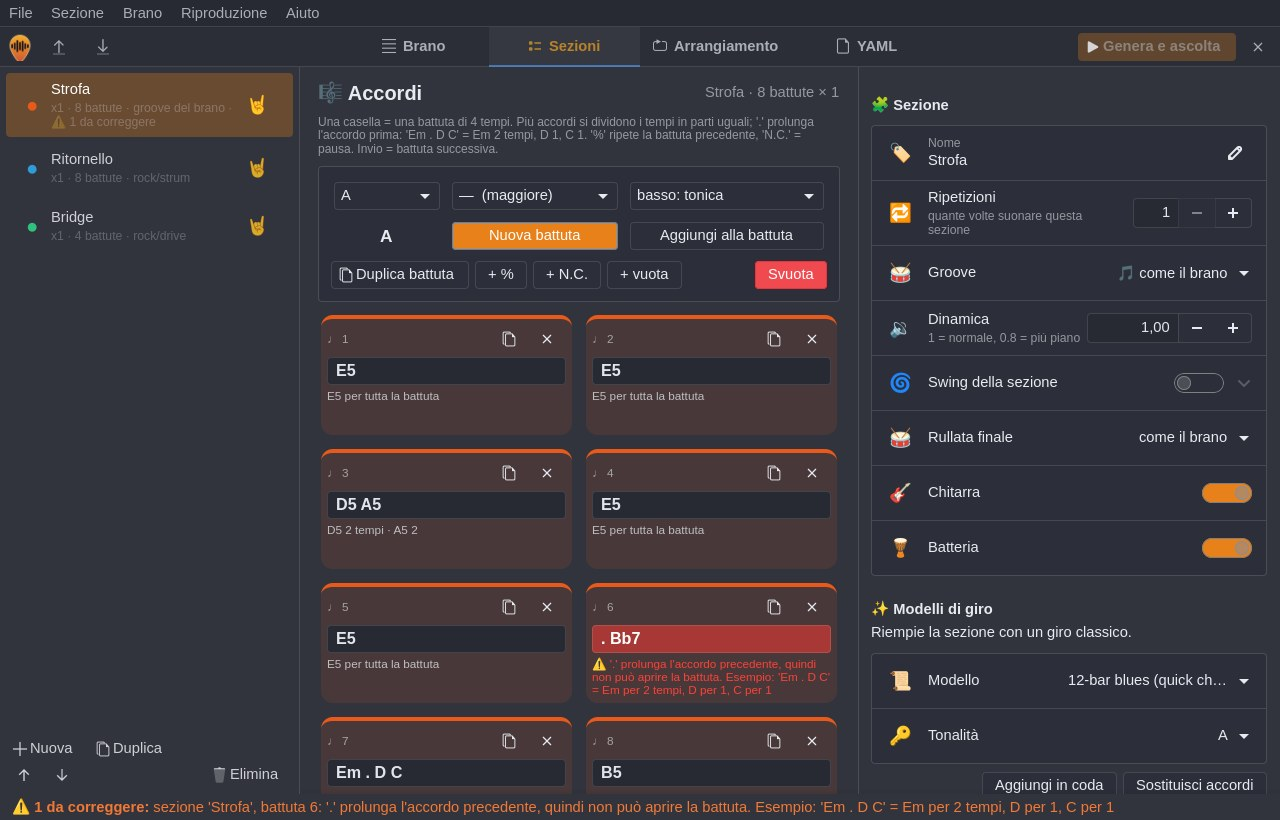
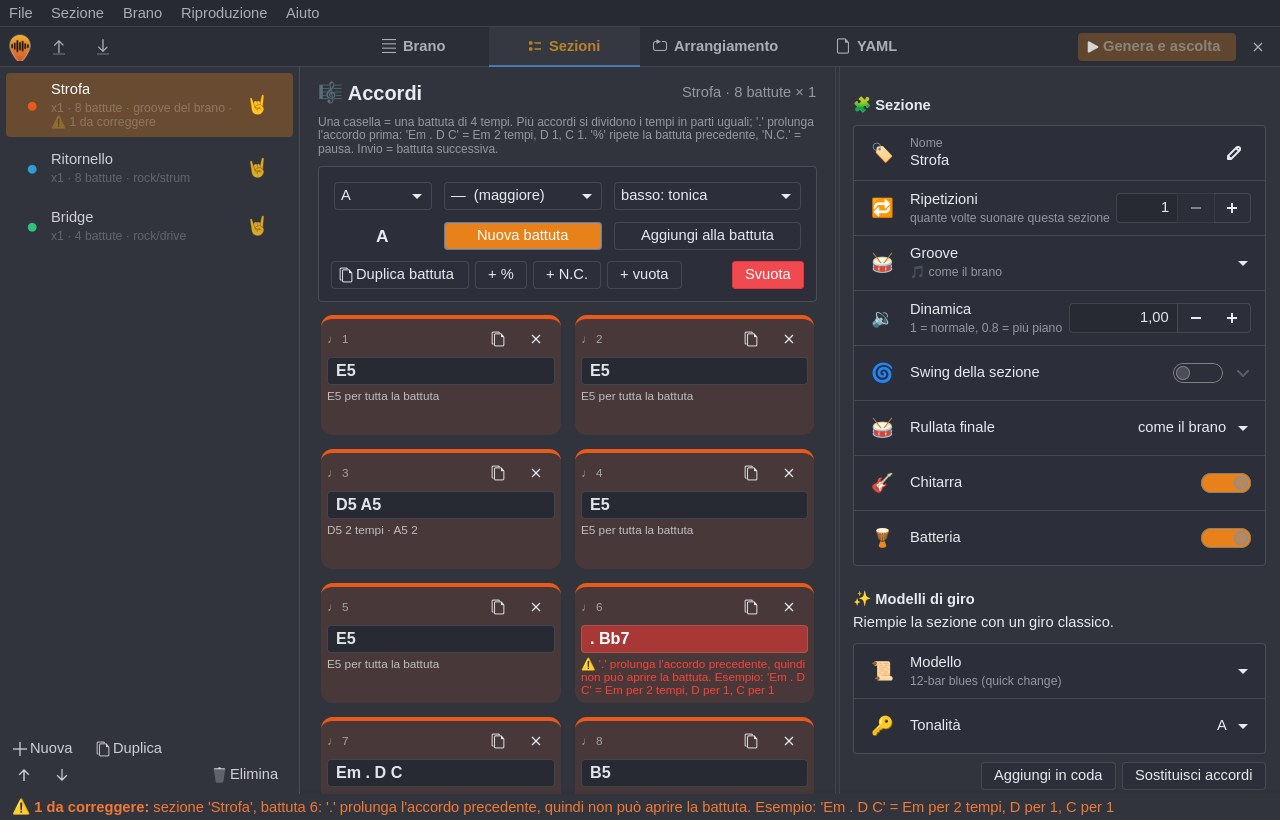
fix(gui): colonna impostazioni più larga e ridimensionabile, valori lunghi sotto il titolo

diff --git a/backingtrack/gui.py b/backingtrack/gui.py
@@ -68,8 +68,9 @@ entry:focus-within { outline-color: alpha(#f5a623, 0.7); }
 
 # --------------------------------------------------------------------------- widget di supporto
 
-def combo_row(title, items, subtitle=None):
-    row = Adw.ComboRow(title=title)
+def combo_row(title, items, subtitle=None, long=False):
+    """long=True: valore scelto mostrato sotto il titolo, a tutta larghezza (per voci lunghe)."""
+    row = Adw.ComboRow(title=title, use_subtitle=long)
     row.set_model(Gtk.StringList.new(items))
     if subtitle:
         row.set_subtitle(subtitle)
@@ -231,8 +232,7 @@ class MainWindow(Adw.ApplicationWindow):
         g = Adw.PreferencesGroup(title="🎵 Brano")
         self.w_title = Adw.EntryRow(title="Titolo")
         self.w_tempo = spin_row("Tempo", 30, 320, 1, subtitle="battiti al minuto (BPM)")
-        self.w_groove = combo_row("Groove", [groove_text(n) for n in GROOVE_NAMES])
-        self.w_groove.set_enable_search(True)
+        self.w_groove = combo_row("Groove", [groove_text(n) for n in GROOVE_NAMES], long=True)
         self.w_transpose = spin_row("Trasposizione", -12, 12, 1, subtitle="semitoni: -1 per accordatura mezzo tono sotto")
         self.w_swing = Adw.ExpanderRow(title="Swing personalizzato", subtitle="se spento, lo decide il groove")
         self.w_swing.set_show_enable_switch(True)
@@ -244,7 +244,7 @@ class MainWindow(Adw.ApplicationWindow):
         page.add(g)
 
         g = Adw.PreferencesGroup(title="🔊 Suono")
-        self.w_guitar = combo_row("Chitarra", ["Gretsch Anniversary (hollowbody)", "Epiphone (solid body)"])
+        self.w_guitar = combo_row("Chitarra", ["Gretsch Anniversary (hollowbody)", "Epiphone (solid body)"], long=True)
         self.w_amp = combo_row("Ampli", ["dal groove"] + sf.AMPS, "clean · blues · twang · crunch · high gain")
         self.w_double = combo_row("Chitarra doppiata L/R", TRI)
         self.w_slap = combo_row("Slapback", TRI, "eco corta anni '50")
@@ -347,8 +347,7 @@ class MainWindow(Adw.ApplicationWindow):
         g = Adw.PreferencesGroup(title="🧩 Sezione")
         self.s_name = Adw.EntryRow(title="Nome")
         self.s_repeat = spin_row("Ripetizioni", 1, 64, 1, subtitle="quante volte suonare questa sezione")
-        self.s_groove = combo_row("Groove", ["🎵 come il brano"] + [groove_text(n) for n in GROOVE_NAMES])
-        self.s_groove.set_enable_search(True)
+        self.s_groove = combo_row("Groove", ["🎵 come il brano"] + [groove_text(n) for n in GROOVE_NAMES], long=True)
         self.s_volume = spin_row("Dinamica", 0.2, 1.5, 0.05, 2, "1 = normale, 0.8 = più piano")
         self.s_swing = Adw.ExpanderRow(title="Swing della sezione")
         self.s_swing.set_show_enable_switch(True)
@@ -430,9 +429,14 @@ class MainWindow(Adw.ApplicationWindow):
         self.c_preview.set_label(self.built_chord())
 
         g = Adw.PreferencesGroup(title="✨ Modelli di giro", description="Riempie la sezione con un giro classico.")
-        self.t_name = deco(combo_row("Modello", list(sf.TEMPLATES)), "📜")
+        self.t_name = deco(combo_row("Modello", list(sf.TEMPLATES), long=True), "📜")
+        self.t_key_sub = lambda *_: self.t_name.set_tooltip_text("| " + " | ".join(
+            sf.template_bars(list(sf.TEMPLATES)[self.t_name.get_selected()], sf.KEYS[self.t_key.get_selected()])) + " |")
+        self.t_name.connect("notify::selected", self.t_key_sub)
         self.t_key = deco(combo_row("Tonalità", sf.KEYS), "🔑")
         self.t_key.set_selected(sf.KEYS.index("A"))
+        self.t_key.connect("notify::selected", self.t_key_sub)
+        self.t_key_sub()
         buttons = Gtk.Box(spacing=6, halign=Gtk.Align.END, margin_top=8)
         rep = Gtk.Button(label="Sostituisci accordi")
         rep.connect("clicked", lambda _b: self.apply_template(replace=True))
@@ -454,14 +458,15 @@ class MainWindow(Adw.ApplicationWindow):
         empty.set_child(start)
         self.sec_stack = Gtk.Stack()
         # due colonne affiancate: accordi (larga) | impostazioni della sezione e modelli
-        page.set_size_request(360, -1)
+        page.set_size_request(440, -1)
         chords_scroll = Gtk.ScrolledWindow(child=chords, hexpand=True, vexpand=True,
                                            hscrollbar_policy=Gtk.PolicyType.NEVER)
         chords_scroll.set_min_content_height(480)  # a finestra stretta gli accordi restano in primo piano
-        self.editor_box = Gtk.Box(orientation=Gtk.Orientation.HORIZONTAL)
-        self.editor_box.append(chords_scroll)
-        self.editor_box.append(Gtk.Separator(orientation=Gtk.Orientation.VERTICAL))
-        self.editor_box.append(page)
+        # divisore trascinabile: lo spazio in più va agli accordi, le impostazioni restano almeno 440 px
+        self.editor_box = Gtk.Paned(orientation=Gtk.Orientation.HORIZONTAL, wide_handle=True,
+                                    start_child=chords_scroll, end_child=page,
+                                    resize_start_child=True, resize_end_child=False,
+                                    shrink_start_child=False, shrink_end_child=False)
         self.sec_stack.add_named(self.editor_box, "editor")
         self.sec_stack.add_named(empty, "empty")
         content = Gtk.Box(orientation=Gtk.Orientation.VERTICAL)
